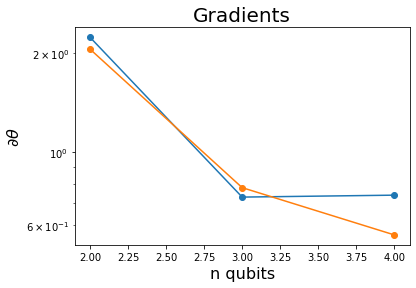
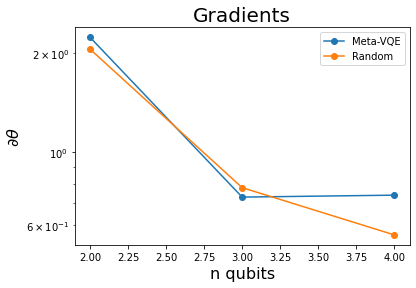
Updated images

Changed region(s): [[0.75, 0.1875, 0.9688, 0.25], [0.75, 0.0938, 0.9688, 0.1562]]

diff --git a/Scripts/Meta-VQE.py b/Scripts/Meta-VQE.py
@@ -1,4 +1,3 @@
-import remote_cirq
 import sys
 import pennylane as qml
 import numpy as np
@@ -8,20 +7,7 @@ from tqdm import tqdm
 
 # Setup the device
 n_qubits = 26
-# dev = qml.device("default.qubit", wires=n_qubits)
-
-
-
-
-
-API_KEY = "AIzaSyCKlvS0d1zKOIG_dXKip0hZlnu-eRXlI-Q"
-sim = remote_cirq.RemoteSimulator(API_KEY)
-
-dev = qml.device("cirq.simulator",
-                 wires=n_qubits,
-                 simulator=sim,
-                 analytic=False)
-
+dev = qml.device("default.qubit", wires=n_qubits)
 
 # Creating training data
 train_deltas = np.random.uniform(low=-1, high=1, size=5)

diff --git a/README.md b/README.md
@@ -1,8 +1,15 @@
 # Can Meta-VQE beat Barren Plateaus?
 
-One of the main problems on Quantum Neural Networks (QNN) is the problem of Barren Plateaus, that is as the system 
+One of the main problems on Quantum Neural Networks (QNN) is the problem of Barren Plateaus, that is as the system grows in size (more qubits) the gradient of the loss function becomes exponentially smaller, this leads to untrainable circuits. Barren Plateaus have various origins, for instance the ansatz expressiveness or even the presence of noise.
 In this project I plan to analyze if the Meta-VQE initialization can surpass the problem of barren plateaus. 
-The first step of the project was to implement the Meta-VQE for pennylane and apply for solving the XXZ Hamiltonian, after implemented
-I analyzed one of the gradients with the plain VQE implementation using random initialization. 
+This project has two parts:
 
+    - The first step of the project was to implement the Meta-VQE for pennylane and apply for solving the XXZ Hamiltonian;
+    - The second part is to compare random initalization and Meta-VQE initialization.
+
+
+
+## Results
+
+Due to lack of time, I analyzed the performance of VQE using random initialization (orange) and Meta-VQE initialization (blue) and we see that it appears that the Meta-VQE initialization is able to avoid barren plateaus for this gradient as becomes constant according to the number of qubits while random initialization keeps decreasing.
 ![grad](https://github.com/nahumsa/qhack21/blob/master/images/grad.png)
